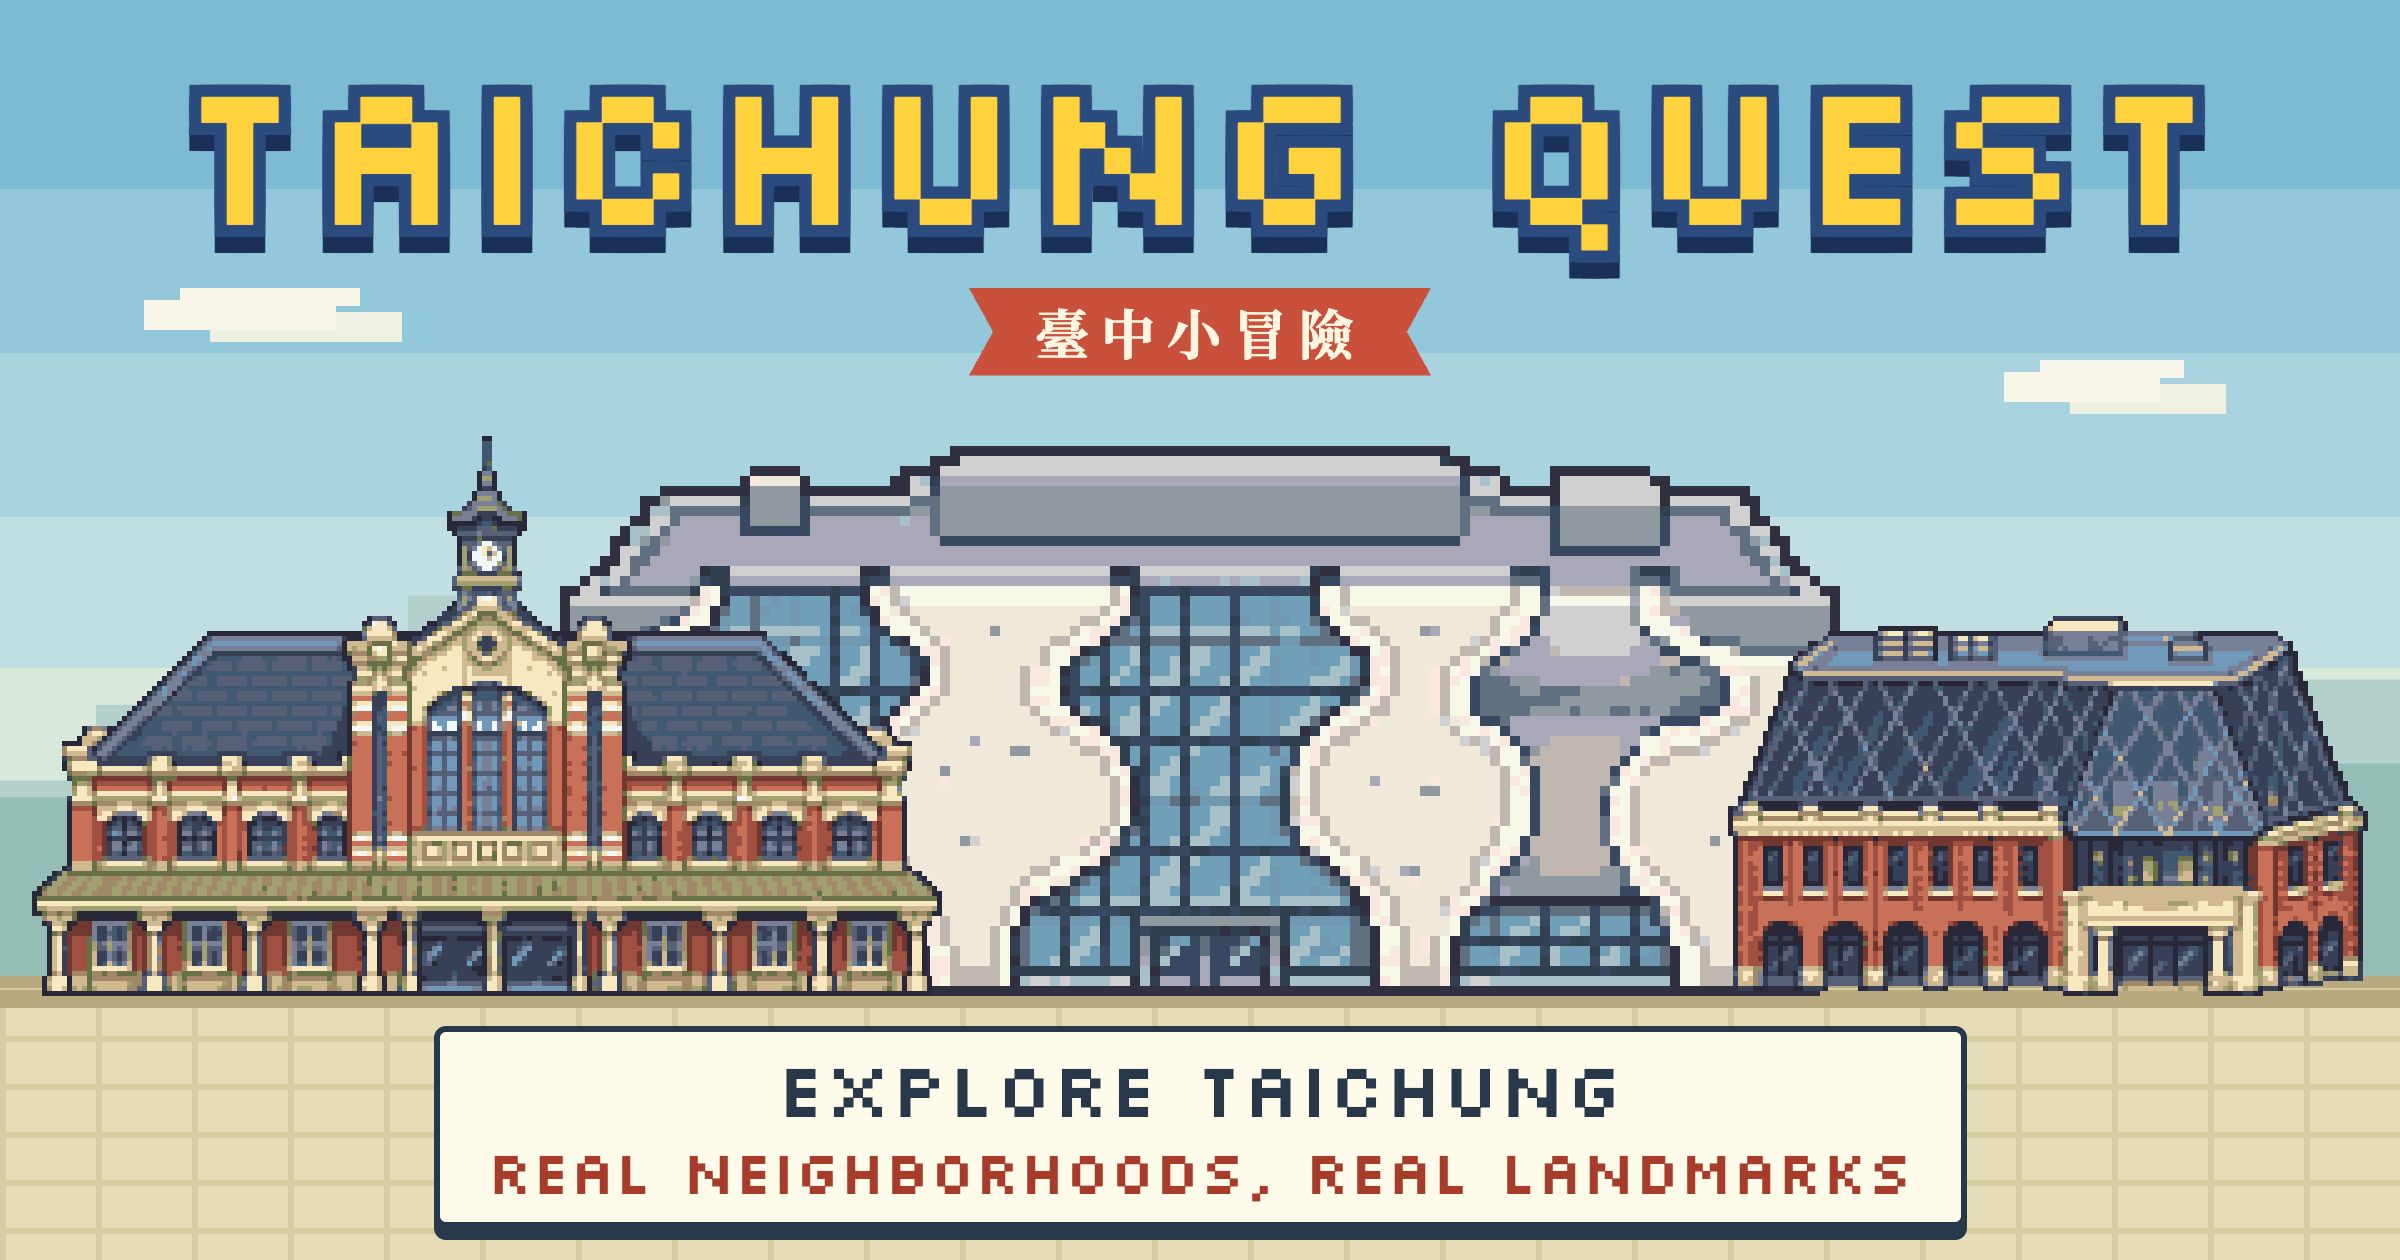
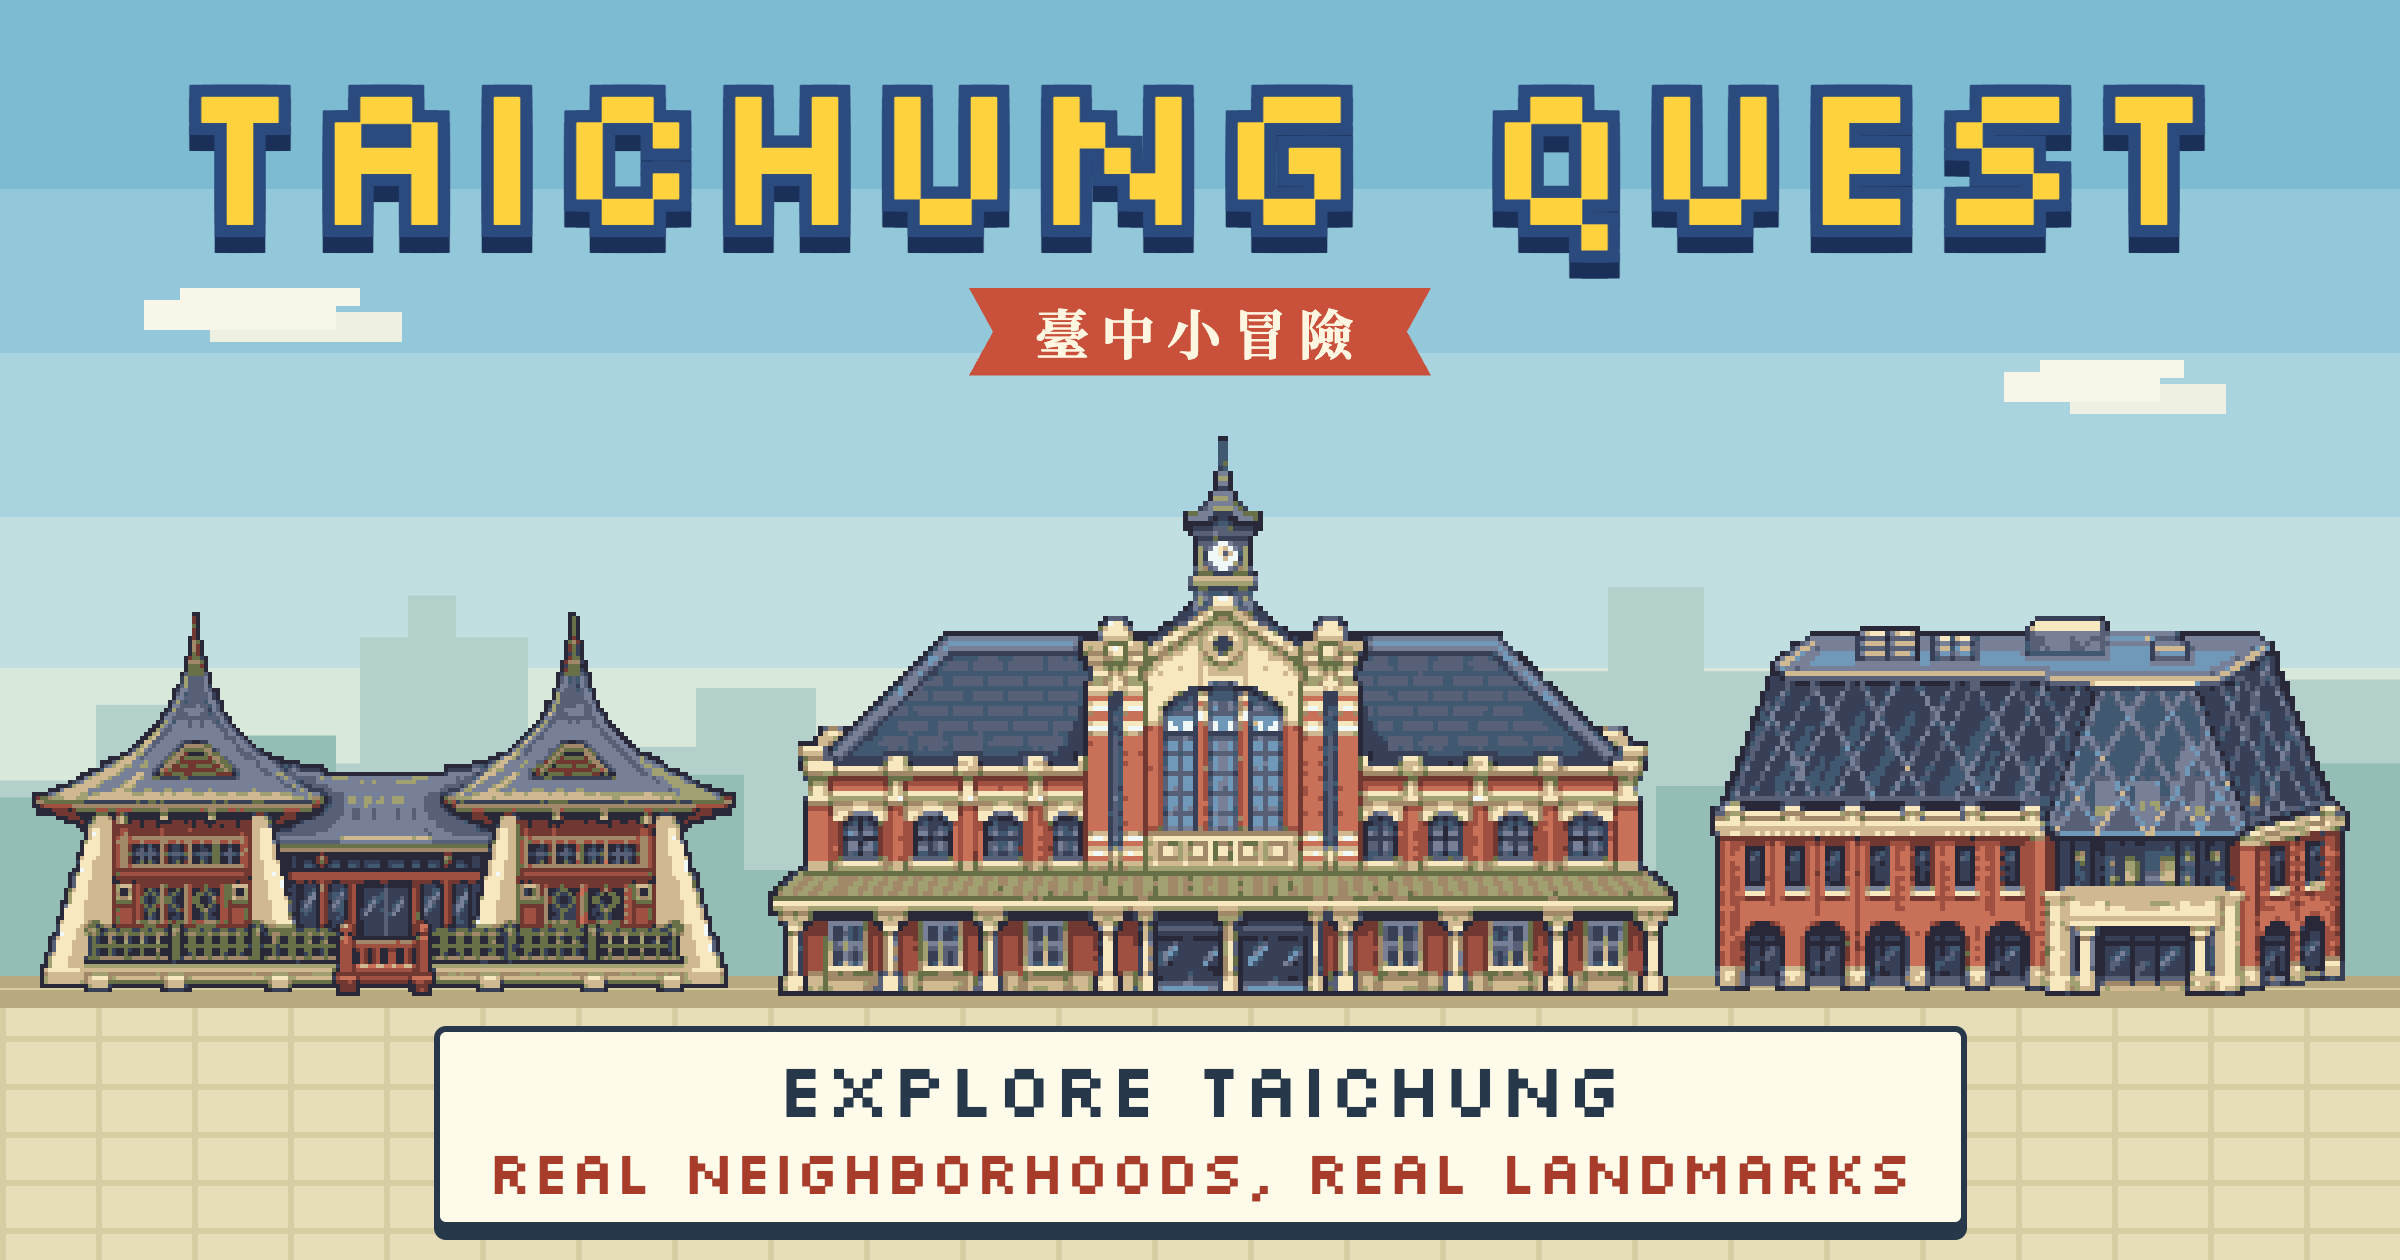
Space three red landmarks evenly on the share image
The Taichung Park pavilion replaces the theater. Nothing overlaps, the gaps
on both sides of the station match, and the two outer buildings are as tall
as each other.

Changed region(s): [[0.0, 0.3405, 1.0, 0.8048]]

diff --git a/web/scripts/social-card.html b/web/scripts/social-card.html
@@ -12,7 +12,8 @@
     <style>
       * { box-sizing: border-box; }
       body { margin: 0; }
-      /* One art pixel is 2.5 card pixels (5 in the rendered image), the same for every building. */
+      /* One art pixel is 2.5 card pixels (5 in the rendered image) for the station and Miyahara. The park
+         pavilion is at 2 (4), which makes it as tall as Miyahara, with the same 16px gap on both sides of the station. */
       .card { position: relative; width: 1200px; height: 630px; overflow: hidden; image-rendering: pixelated;
         background: linear-gradient(#7dbbd3 0 15%, #93c8da 15% 28%, #a9d3df 28% 41%, #c1dfe0 41% 53%, #d8e9dc 53% 65%, #ecf0d3 65%); }
       .card > * { position: absolute; }
@@ -38,9 +39,9 @@
       <i class="skyline far"></i><i class="skyline near"></i>
       <i class="plaza"></i>
       <i class="shade"></i>
-      <img class="building" style="left:280px;width:640px" src="../src/assets/landmarks/theater.png" alt="">
-      <img class="building" style="left:3.5px;width:480px;bottom:119.5px" src="../src/assets/landmarks/old-station.png" alt="">
-      <img class="building" style="left:864px;width:400px" src="../src/assets/landmarks/miyahara.png" alt="">
+      <img class="building" style="left:-16px;width:384px" src="../src/assets/landmarks/taichung-park.png" alt="">
+      <img class="building" style="left:371.5px;width:480px;bottom:119.5px" src="../src/assets/landmarks/old-station.png" alt="">
+      <img class="building" style="left:855px;width:400px" src="../src/assets/landmarks/miyahara.png" alt="">
       <div class="logo">TAICHUNG QUEST</div>
       <div class="ribbon" lang="zh-Hant">臺中小冒險</div>
       <div class="line"><span>Explore Taichung<small>real neighborhoods, real landmarks</small></span></div>

diff --git a/web/index.html b/web/index.html
@@ -15,7 +15,7 @@
     <meta property="og:image:type" content="image/png" />
     <meta property="og:image:width" content="2400" />
     <meta property="og:image:height" content="1260" />
-    <meta property="og:image:alt" content="Taichung Quest: Taichung Old Station, the National Taichung Theater and Miyahara drawn in pixel art." />
+    <meta property="og:image:alt" content="Taichung Quest: the Taichung Park pavilion, Taichung Old Station and Miyahara drawn in pixel art." />
     <meta name="twitter:card" content="summary_large_image" />
     <link rel="icon" type="image/svg+xml" href="/favicon.svg" />
     <!-- The page is cross-origin isolated, so these must load in CORS mode. -->
